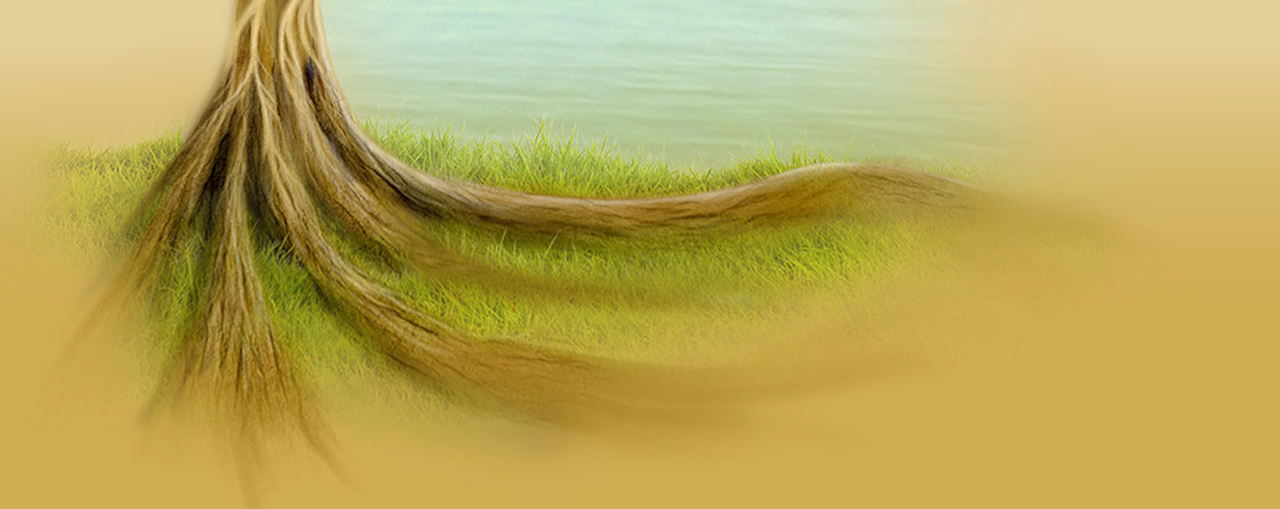
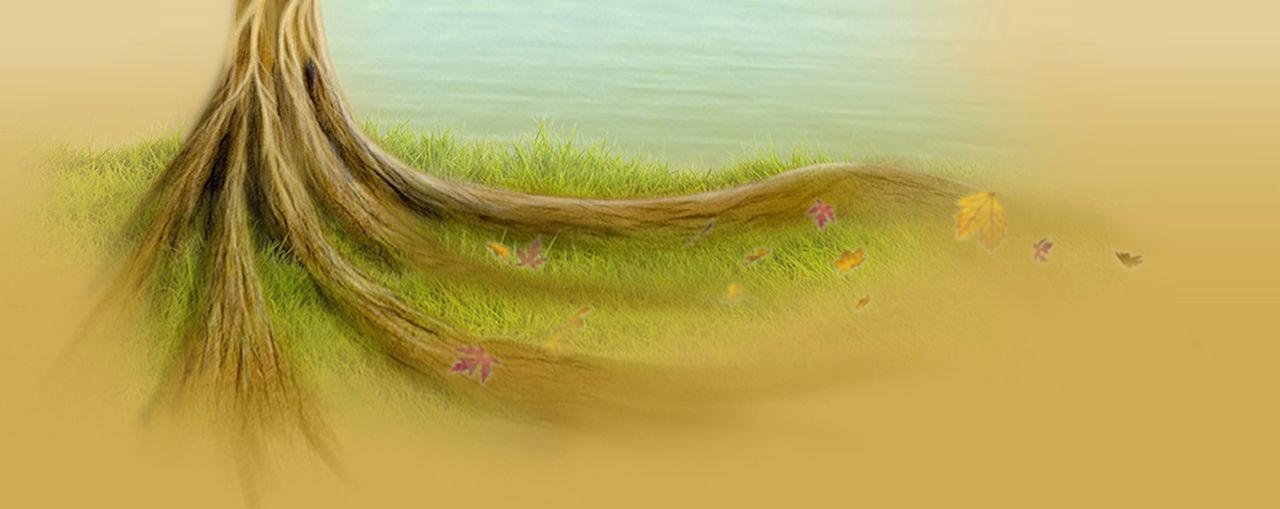
added light animation, added leafs on backgroud

diff --git a/www/javascript.js b/www/javascript.js
@@ -13,7 +13,15 @@ $(function () {
 				  .fadeToggle(600)
 				  .fadeToggle(300)
 				  .fadeToggle(2000, function () {
-					  setTimeout(showGem, 1000);
+					  $("#light1")
+								 .fadeToggle(500)
+								 .fadeToggle(2000, function () {
+									 $("#light2")
+												.fadeToggle(500)
+												.fadeToggle(2000, function () {
+													showGem();
+												});
+								 });
 				  });
 	}
 

diff --git a/scss/_layout.scss b/scss/_layout.scss
@@ -55,11 +55,21 @@ a{
 	margin: 0 0 0 390px;
 	padding-bottom: 360px;
 }
-#gem{
+#gem, #light1, #light2{
 	position: absolute;
+	display: none;
+}
+#gem{
 	top: 161px;
 	left: 249px;
-	display: none;
+}
+#light1{
+	top: 30px;
+	left: 132px;
+}
+#light2{
+	top: 374px;
+	left: 202px;
 }
 .toplist{
 	position: absolute;

diff --git a/www/style.css b/www/style.css
@@ -47,11 +47,24 @@ a {
   padding-bottom: 360px;
 }
 
-#gem {
+#gem, #light1, #light2 {
   position: absolute;
+  display: none;
+}
+
+#gem {
   top: 161px;
   left: 249px;
-  display: none;
+}
+
+#light1 {
+  top: 30px;
+  left: 132px;
+}
+
+#light2 {
+  top: 374px;
+  left: 202px;
 }
 
 .toplist {
